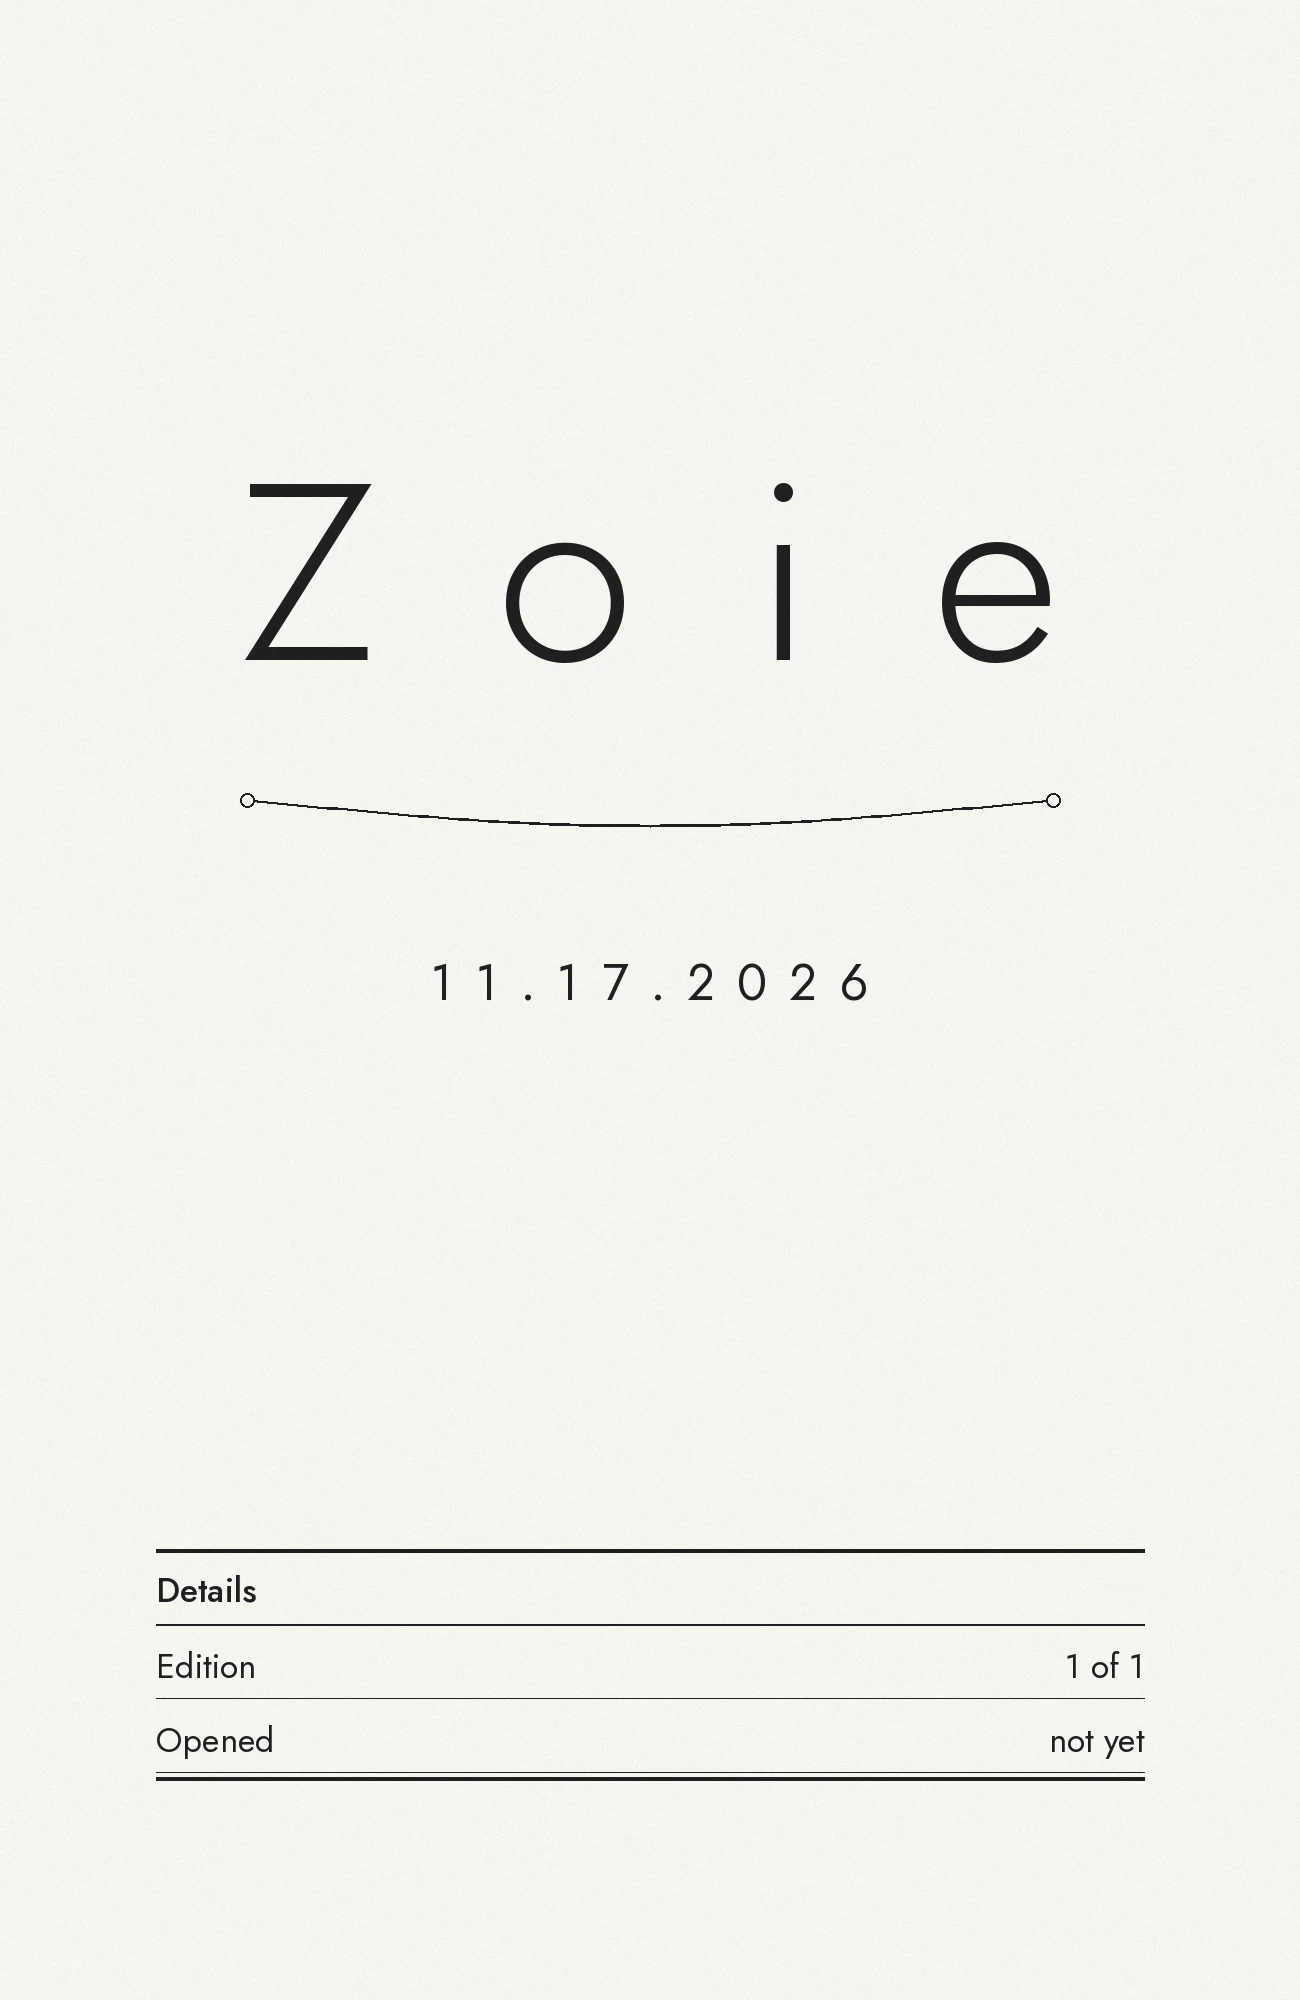
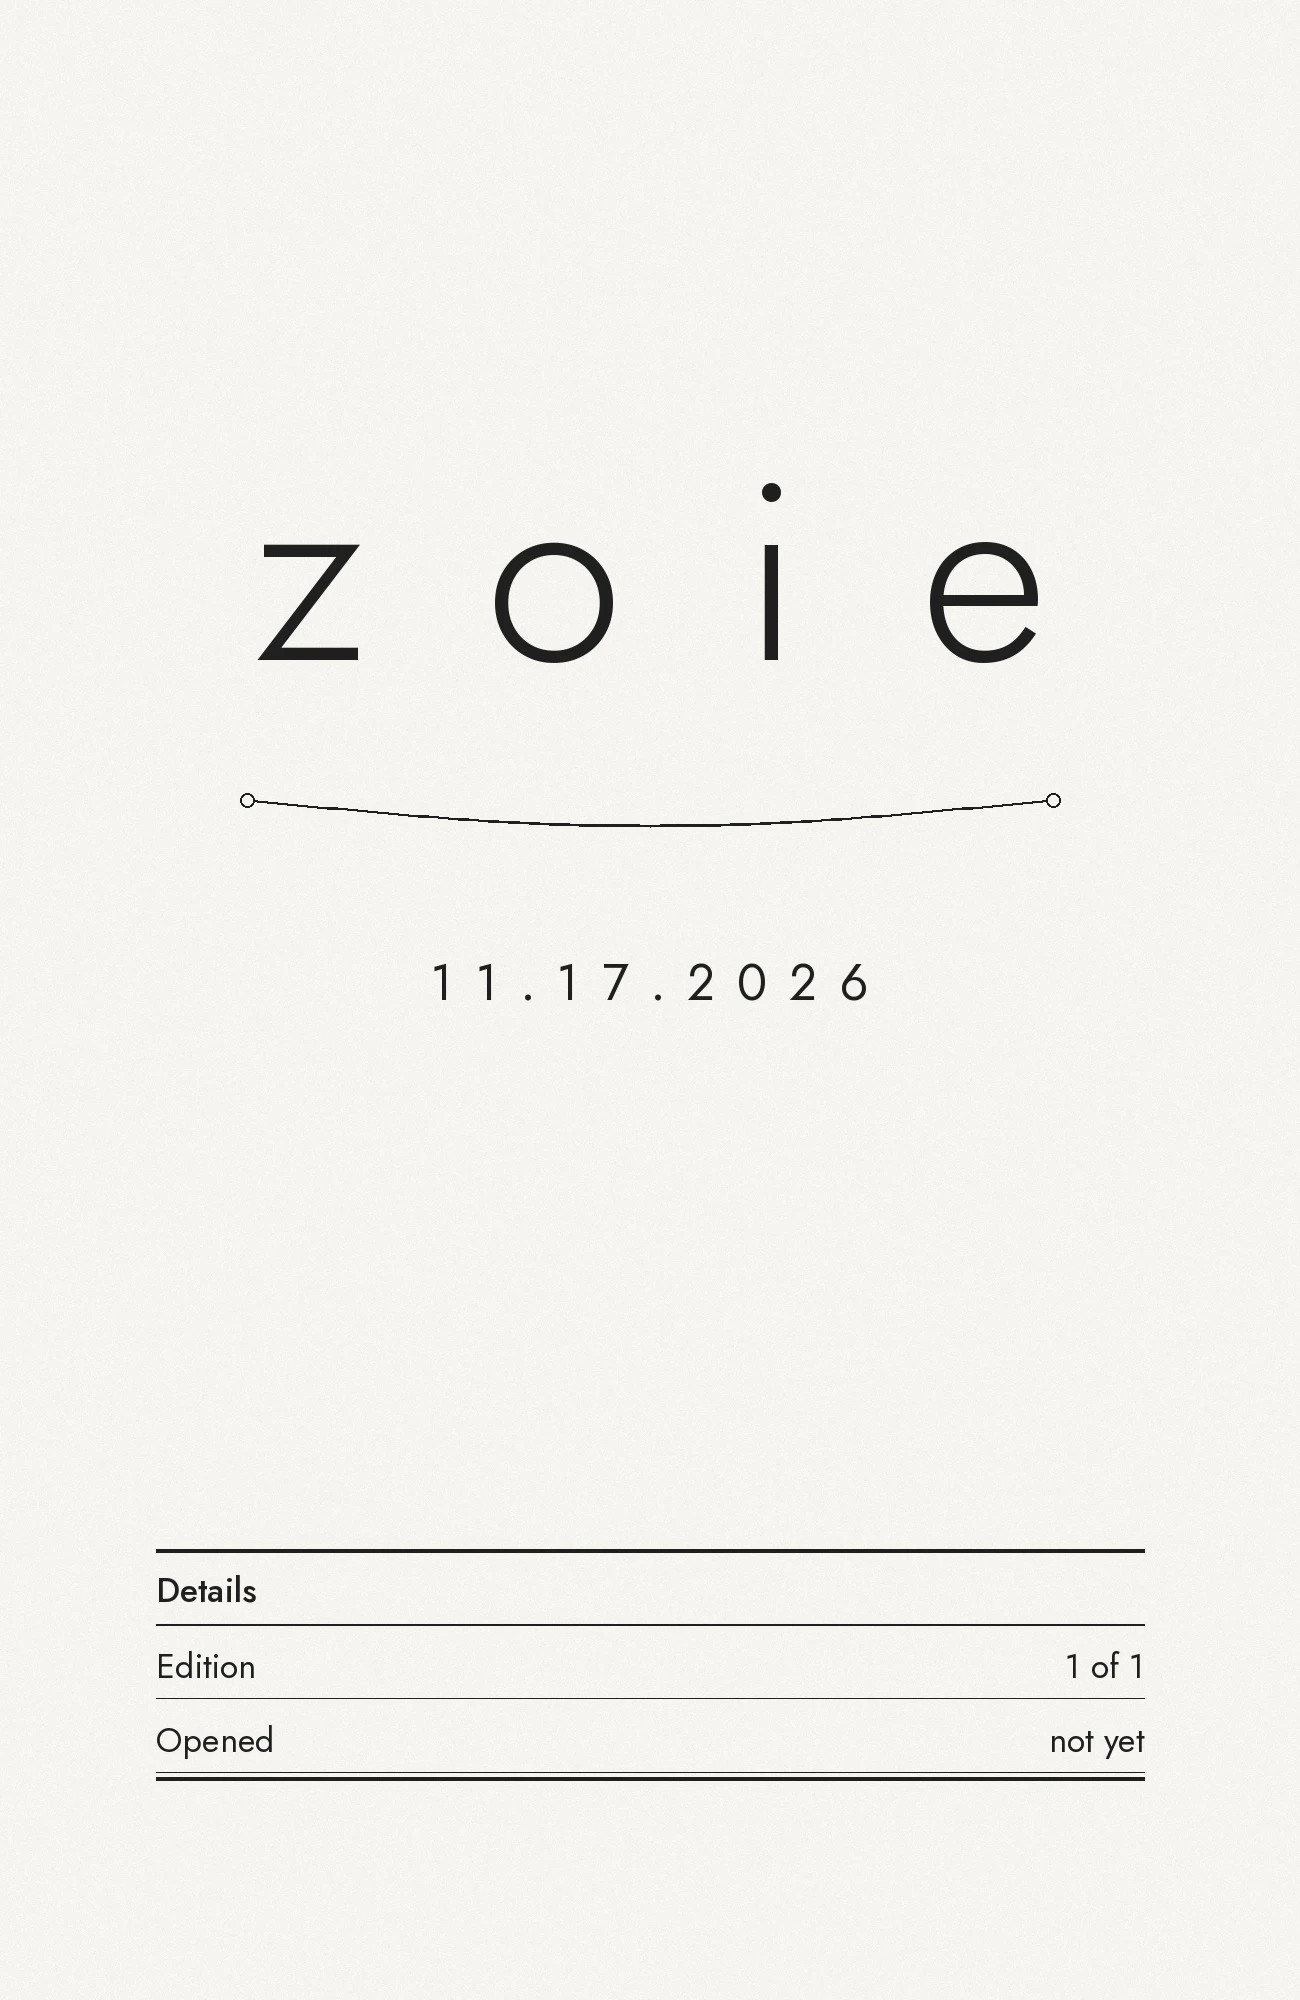
Replace header with cut-paper "click me!" under the title and "back" on the keychain page
Both built like the title (white scraps on a cream strip, WenKai). Clicking one jostles its
letters and draws a pen loop round it, then changes page when the loop closes. Box text:
zoie lowercase.

Claude-Session: https://claude.ai/code/session_01NL2CSJLjtWH7qaAE7ZtJhZ

diff --git a/intro.js b/intro.js
@@ -72,6 +72,73 @@
     });
     return { strip, chars, last: li === HEADLINE.length - 1 };
   });
+  // ---- "click me!" under the title, cut and pasted the same way (smaller), and a "back"
+  // on the keychain page. Clicking one: its letters get knocked about for a moment and a
+  // pen loop is drawn round it (circling the choice), then the page changes once the loop
+  // closes. Hover pre-draws the start of the loop.
+  const LOOP = "M84 9 C62 1.5 22 2 8 13 C-2 22 8 35 32 37.5 C58 40 92 37 97 25 C101 15 88 7 70 6.5";
+  function scrapButton(text, href, cls) {
+    const a = document.createElement("a");
+    a.href = href; a.className = "hl-line hl-btn " + cls;
+    const paper = document.createElement("i"); paper.className = "hl-strip"; paper.style.clipPath = stripCut();
+    a.appendChild(paper);
+    const chars = [];
+    text.split(" ").forEach((word, wi) => {
+      [...word].forEach((g, gi) => {
+        const s = document.createElement("span");
+        s.textContent = g;
+        s.style.clipPath = scrap();
+        const pad = () => rnd(0.08, 0.18).toFixed(2) + "em";
+        s.style.padding = `${pad()} ${pad()} ${pad()} ${pad()}`;
+        if (wi && !gi) s.style.marginLeft = "0.34em";
+        else if (gi) s.style.marginLeft = rnd(0, 0.16).toFixed(2) + "em";
+        s.dataset.rest = `translateY(${rnd(0, 0.16).toFixed(2)}em) rotate(${rnd(-3, 3).toFixed(1)}deg)`;
+        s.style.transform = s.dataset.rest;
+        a.appendChild(s); chars.push(s);
+      });
+    });
+    a.setAttribute("aria-label", text);
+    const svg = document.createElementNS("http://www.w3.org/2000/svg", "svg");
+    svg.setAttribute("class", "ink"); svg.setAttribute("viewBox", "0 0 100 40");
+    svg.setAttribute("preserveAspectRatio", "none"); svg.setAttribute("aria-hidden", "true");
+    const p = document.createElementNS("http://www.w3.org/2000/svg", "path");
+    p.setAttribute("d", LOOP); svg.appendChild(p); a.appendChild(svg);
+    let busy = false;
+    a.addEventListener("click", (e) => {
+      e.preventDefault();
+      if (busy) return; busy = true;
+      measureInk(p);
+      a.classList.add("drawn");
+      chars.forEach((c, i) => setTimeout(() => {
+        c.style.transform = `translateY(${rnd(-0.14, 0.1).toFixed(2)}em) rotate(${rnd(-9, 9).toFixed(1)}deg)`;
+        setTimeout(() => { c.style.transform = c.dataset.rest; }, 170);
+      }, i * 28));
+      setTimeout(() => { location.hash = href; }, 640);
+      setTimeout(() => { a.classList.remove("drawn"); busy = false; }, 1400);
+    });
+    return { a, chars, path: p };
+  }
+  // the loop's stroke isn't scaled with the stretched SVG: measure its on-screen length
+  function measureInk(p) {
+    const m = p.ownerSVGElement.getScreenCTM(); if (!m) return;
+    const L = p.getTotalLength(); let len = 0, prev = null;
+    for (let i = 0; i <= 60; i++) {
+      const q = p.getPointAtLength((L * i) / 60), x = q.x * m.a + q.y * m.c, y = q.x * m.b + q.y * m.d;
+      if (prev) len += Math.hypot(x - prev[0], y - prev[1]);
+      prev = [x, y];
+    }
+    p.style.setProperty("--len", Math.ceil(len + 4));
+  }
+  const clickMe = scrapButton("click me!", "#birthday", "hl-go");
+  lines.push({ strip: clickMe.a, chars: clickMe.chars, last: false });
+  const back = scrapButton("back", "#gallery", "hl-back");
+  back.chars.forEach((c) => c.classList.add("in", "set"));
+  document.body.appendChild(back.a);
+  const remeasure = () => { measureInk(clickMe.path); measureInk(back.path); };
+  addEventListener("resize", remeasure);
+  addEventListener("hashchange", () => requestAnimationFrame(remeasure));
+  if (document.fonts) document.fonts.ready.then(remeasure);
+
   lines.forEach((l) => headline.appendChild(l.strip));
   const stamp = document.createElement("div");      // (no date under the title: the reference has none)
   const allChars = lines.flatMap((l) => l.chars);

diff --git a/style.css b/style.css
@@ -491,3 +491,33 @@ body.birthday header a .ink path { stroke: #f4f1e8; }   /* the hand-drawn loop s
 #headline .hl-line span.hl-p[data-g="！"] { width: 0.3em; height: 0.9em; margin-left: 0.04em; }
 #headline .hl-line span.hl-p[data-g="！"] b { left: -0.075em; top: -0.035em; }
 #headline .hl-date { display: none; }
+
+/* ---- "click me!" (under the title) and "back" (keychain page): same cut-paper build as the
+   title at 42% size; a pen loop is drawn round one when it's clicked ---- */
+@font-face { font-family: "WenKai Title"; src: url("assets/fonts/wenkai-btn.woff2") format("woff2");
+  unicode-range: U+0020-007E; font-display: block; }
+#headline .hl-line.hl-btn { font-size: max(18px, calc(min(5.5vmax, 9.5vw) * 0.42)); margin-top: 0.9em; }
+.hl-btn::after { content: ""; position: absolute; inset: -10px -8px; }   /* ~44px tap target on phones */
+.hl-btn { position: relative; display: flex; align-items: flex-start; padding: 0 0.22em 0.24em 0;
+  text-decoration: none; pointer-events: auto; cursor: pointer; -webkit-tap-highlight-color: transparent;
+  filter: drop-shadow(0 1px 1.5px rgba(0, 0, 0, 0.22)); outline: none; }
+.hl-btn .hl-strip { position: absolute; left: 0.62em; right: 0; top: 0.1em; bottom: 0; background: rgb(244, 239, 231); }
+.hl-btn span { position: relative; font: 700 1em/1 "WenKai Title", serif; color: rgb(31, 32, 32);
+  -webkit-text-stroke: 0.03em rgb(31, 32, 32); background: rgb(250, 250, 250);
+  transition: transform 0.17s cubic-bezier(.22,1,.36,1); }
+.hl-btn:active { transform: scale(0.97); }
+.hl-btn .ink { position: absolute; left: -0.55em; top: -0.5em; width: calc(100% + 1.1em); height: calc(100% + 0.95em);
+  overflow: visible; pointer-events: none; }
+.hl-btn .ink path { fill: none; stroke: #1f2020; stroke-width: 2.2; stroke-linecap: round; stroke-linejoin: round;
+  vector-effect: non-scaling-stroke; stroke-dasharray: var(--len, 400) var(--len, 400); stroke-dashoffset: var(--len, 400);
+  transition: stroke-dashoffset 0.25s ease, opacity 0.25s; }
+@media (hover: hover) { .hl-btn:not(.drawn):hover .ink path { stroke-dashoffset: calc(var(--len, 400) * 0.84); opacity: 0.55; } }
+.hl-btn.drawn .ink path { stroke-dashoffset: 0; opacity: 1; transition: stroke-dashoffset 0.5s cubic-bezier(.45,.05,.3,1); }
+.hl-btn:focus-visible .ink path { stroke-dashoffset: calc(var(--len, 400) * 0.84); opacity: 0.55; }
+/* back: top-left on the black keychain page, light pen */
+.hl-back { position: fixed; z-index: 8; left: 28px; top: 26px; font-size: min(30px, 6.4vw);
+  opacity: 0; pointer-events: none; transition: opacity 0.35s; }
+body.birthday .hl-back { opacity: 1; pointer-events: auto; }
+body.birthday.intro .hl-back, body.boxing .hl-back { opacity: 0; pointer-events: none; }
+.hl-back .ink path { stroke: #f4f1e8; }
+@media (max-width: 720px) { .hl-back { left: 16px; top: 18px; } }

diff --git a/router.js b/router.js
@@ -1,12 +1,11 @@
-// Two views on one page: #gallery (default) and #birthday (keychain).
+// Two views on one page: #gallery (default) and #birthday (keychain). The way between them
+// is the "click me!" under the title and the "back" on the keychain page (built in intro.js).
 (() => {
   const hint = document.getElementById("hint");
-  const links = document.querySelectorAll("header a[data-view]");
   let first = true;
   function show() {
     const view = location.hash === "#birthday" ? "birthday" : "gallery";
     document.body.classList.toggle("birthday", view === "birthday");
-    links.forEach((a) => a.classList.toggle("current", a.dataset.view === view));
     hint.textContent = view === "birthday" ? "" : "drag anywhere";
     if (!first) hint.classList.remove("gone");
     if (window.Keychain) window.Keychain.reset();
@@ -14,26 +13,8 @@
     if (view === "gallery" && window.Gallery) window.Gallery.reset();
     first = false;
   }
-  // ink loops: the stroke isn't scaled with the stretched SVG, so measure each loop's
-  // real on-screen length for the draw-in dash
-  const measureInk = () => document.querySelectorAll("header .ink path").forEach((p) => {
-    const m = p.ownerSVGElement.getScreenCTM(); if (!m) return;
-    const L = p.getTotalLength(); let len = 0, prev = null;
-    for (let i = 0; i <= 60; i++) {
-      const q = p.getPointAtLength((L * i) / 60), x = q.x * m.a + q.y * m.c, y = q.x * m.b + q.y * m.d;
-      if (prev) len += Math.hypot(x - prev[0], y - prev[1]);
-      prev = [x, y];
-    }
-    p.style.setProperty("--len", Math.ceil(len + 4));
-  });
-  measureInk(); addEventListener("resize", measureInk);
-  if (document.fonts) document.fonts.ready.then(measureInk);
   // the blind box opening plays once, when she first enters the site (intro.js); switching
   // views afterwards just shows the gallery as it is
   addEventListener("hashchange", show);
-  // clicking "our gallery" while already on it re-centres it too (same hash: no hashchange)
-  document.querySelector('header a[data-view="gallery"]').addEventListener("click", () => {
-    if (location.hash !== "#birthday" && window.Gallery) window.Gallery.reset();
-  });
   show();
 })();

diff --git a/index.html b/index.html
@@ -24,10 +24,6 @@
 
 
 
-  <header>
-    <a href="#gallery" data-view="gallery">our gallery<svg class="ink" viewBox="0 0 100 40" preserveAspectRatio="none" aria-hidden="true"><path pathLength="1" d="M7 23 C4 9 38 2 68 4.5 C93 7 99 21 85 31 C66 41 24 40.5 9 29.5 C4 25.5 6 18 14 14"/></svg></a>
-    <a href="#birthday" data-view="birthday">happy birthday &lt;3<svg class="ink" viewBox="0 0 100 40" preserveAspectRatio="none" aria-hidden="true"><path pathLength="1" d="M90 20 C96 8 62 2.5 34 4 C9 6 1 18 12 29 C26 40 72 41 89 31 C96 26.5 95 19 86 15"/></svg></a>
-  </header>
 
   <div id="headline" aria-hidden="true"></div>
 

diff --git a/tools/box/box_art.py b/tools/box/box_art.py
@@ -36,7 +36,7 @@ def arc(d, cx, cy, w, sag, lw=3):
 
 def front():
     im = paper(FW, FH, 1); d = ImageDraw.Draw(im)
-    tracked(d, FW / 2, FH * 0.33, "Zoie", F("300-normal", 250), 120)
+    tracked(d, FW / 2, FH * 0.33, "zoie", F("300-normal", 250), 120)
     arc(d, FW / 2, FH * 0.40, FW * 0.62, 26)
     tracked(d, FW / 2, FH * 0.50, "11.17.2026", F("400-normal", 50), 22)
     # contents table
@@ -59,15 +59,15 @@ def vertical(im, x, y, txt, font, track, rot):
 
 def left():
     im = paper(FW, FH, 2); d = ImageDraw.Draw(im)
-    tracked(d, FW / 2, FH * 0.47, "For Zoie,", F("400-normal", 54), 10)
-    tracked(d, FW / 2, FH * 0.47 + 78, "from Edward.", F("400-normal", 54), 10)
+    tracked(d, FW / 2, FH * 0.47, "for zoie,", F("400-normal", 54), 10)
+    tracked(d, FW / 2, FH * 0.47 + 78, "from edward.", F("400-normal", 54), 10)
     vertical(im, FW * 0.92, FH * 0.18, "11.17.2026", F("400-normal", 34), 10, -90)
     return im
 
 def right():
     im = paper(FW, FH, 3); d = ImageDraw.Draw(im)
     x0 = FW * 0.12
-    tracked(d, x0, FH * 0.16, "Zoie", F("300-normal", 110), 52, anchor="l")
+    tracked(d, x0, FH * 0.16, "zoie", F("300-normal", 110), 52, anchor="l")
     body = F("400-normal", 40)
     lines = ["Inside is one", "sealed bag.", "",
              "What's in it stays", "hidden until the bag", "is torn open."]
@@ -100,7 +100,7 @@ def back():
 
 def top():
     im = paper(FW, FW, 5); d = ImageDraw.Draw(im)
-    tracked(d, FW / 2, FW * 0.42, "Zoie", F("300-normal", 120), 58)
+    tracked(d, FW / 2, FW * 0.42, "zoie", F("300-normal", 120), 58)
     arc(d, FW / 2, FW * 0.48, FW * 0.36, 14, 2)
     tracked(d, FW / 2, FW * 0.62, "open here", F("400-italic", 40), 10)
     return im
